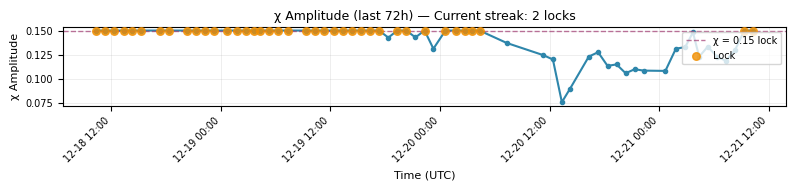
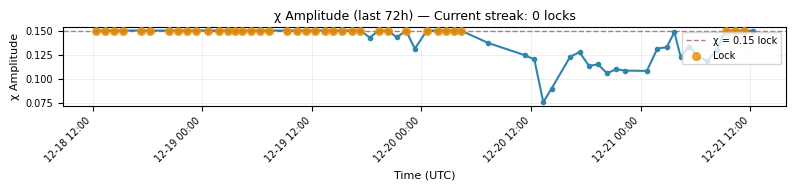
Vault Narrator: Auto-update 2025-12-21 13:11 UTC

diff --git a/LATEST_VAULT_STATUS.md b/LATEST_VAULT_STATUS.md
@@ -1,26 +1,24 @@
 # 🔐 VAULT STATUS REPORT
 
-**Generated:** 2025-12-21 11:04 UTC  
+**Generated:** 2025-12-21 13:11 UTC  
 **Data Source:** `data/cme_heartbeat_log_2025_12.csv`
 
 ---
 
-## ⚡ CURRENT STATUS: ACTIVE
+## ⚡ CURRENT STATUS: QUIET
 
-**Latest χ = 0.15 Streak Count:** 2 consecutive readings  
-**Last Lock Timestamp:** 2025-12-21 10:19:00 UTC  
-**First Lock in Streak:** 2025-12-21 09:19:00 UTC  
-**Streak Duration:** 1.0 hours  
+**No active χ = 0.15 locks detected**  
+**Last Lock Timestamp:** 2025-12-21 11:19:00 UTC  
 
 **Latest Solar Wind Conditions:**  
-- Density: 2.97 p/cm³  
-- Speed: 634.1 km/s  
+- Density: 3.66 p/cm³  
+- Speed: 620.7 km/s  
 
 ---
 
 ## 🌞 NOAA SPACE WEATHER SUMMARIES
 
-- [SRS Report](reports/latest_srs.md) (fetched: 2025-12-21 11:04 UTC)  
+- [SRS Report](reports/latest_srs.md) (fetched: 2025-12-21 13:11 UTC)  
 - F10.7 Report: *not available*  
 
 ---
@@ -41,8 +39,6 @@
 
 | Time (UTC)          | χ Amplitude | Density (p/cm³) | Speed (km/s) | χ Status |
 |---------------------|-------------|-----------------|--------------|----------|
-| 2025-12-20 13:21:00 | 0.0760 | 5.02 | 448.9 | — |
-| 2025-12-20 14:15:00 | 0.0900 | 5.50 | 443.9 | — |
 | 2025-12-20 16:18:00 | 0.1231 | 9.06 | 443.5 | — |
 | 2025-12-20 17:19:00 | 0.1276 | 13.33 | 454.3 | — |
 | 2025-12-20 18:21:00 | 0.1135 | 12.19 | 420.4 | — |
@@ -61,13 +57,16 @@
 | 2025-12-21 08:20:00 | 0.1303 | 4.24 | 575.1 | — |
 | 2025-12-21 09:19:00 | 0.1500 | 2.96 | 646.5 | ✅ LOCK |
 | 2025-12-21 10:19:00 | 0.1500 | 2.97 | 634.1 | ✅ LOCK |
+| 2025-12-21 11:19:00 | 0.1500 | 3.51 | 623.0 | ✅ LOCK |
+| 2025-12-21 12:21:00 | 0.1497 | 3.66 | 620.7 | — |
 
 ---
 
 ## 🎯 VERDICT
 
-**Active χ = 0.15 detection.**  
-**Vault warming up.**
+**The vault is quiet.**  
+**No χ = 0.15 locks detected in latest readings.**  
+**Waiting for next coherence phase.**
 
 ---
 
